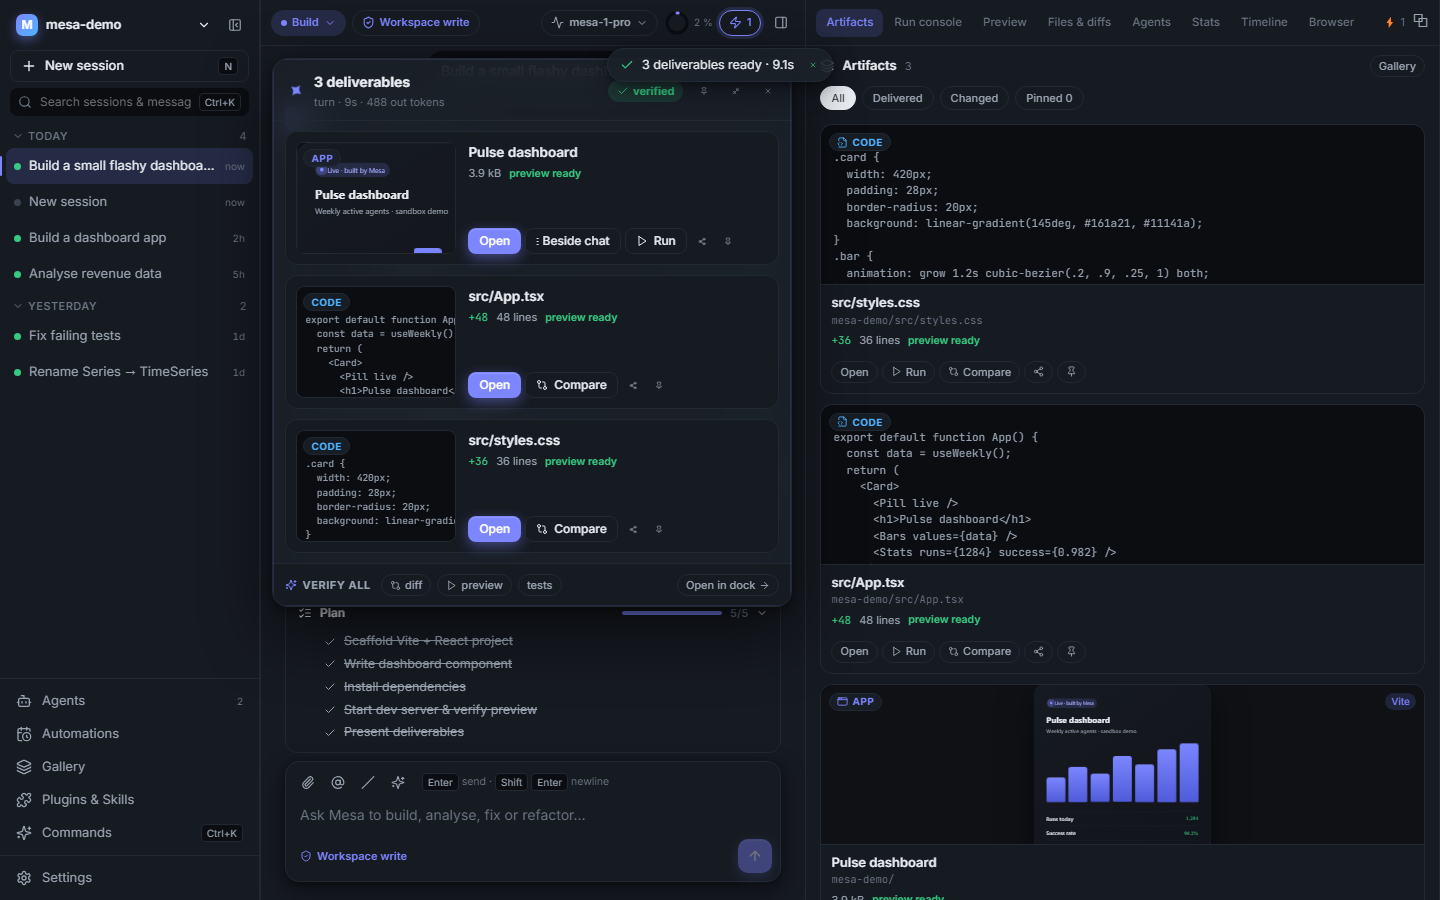
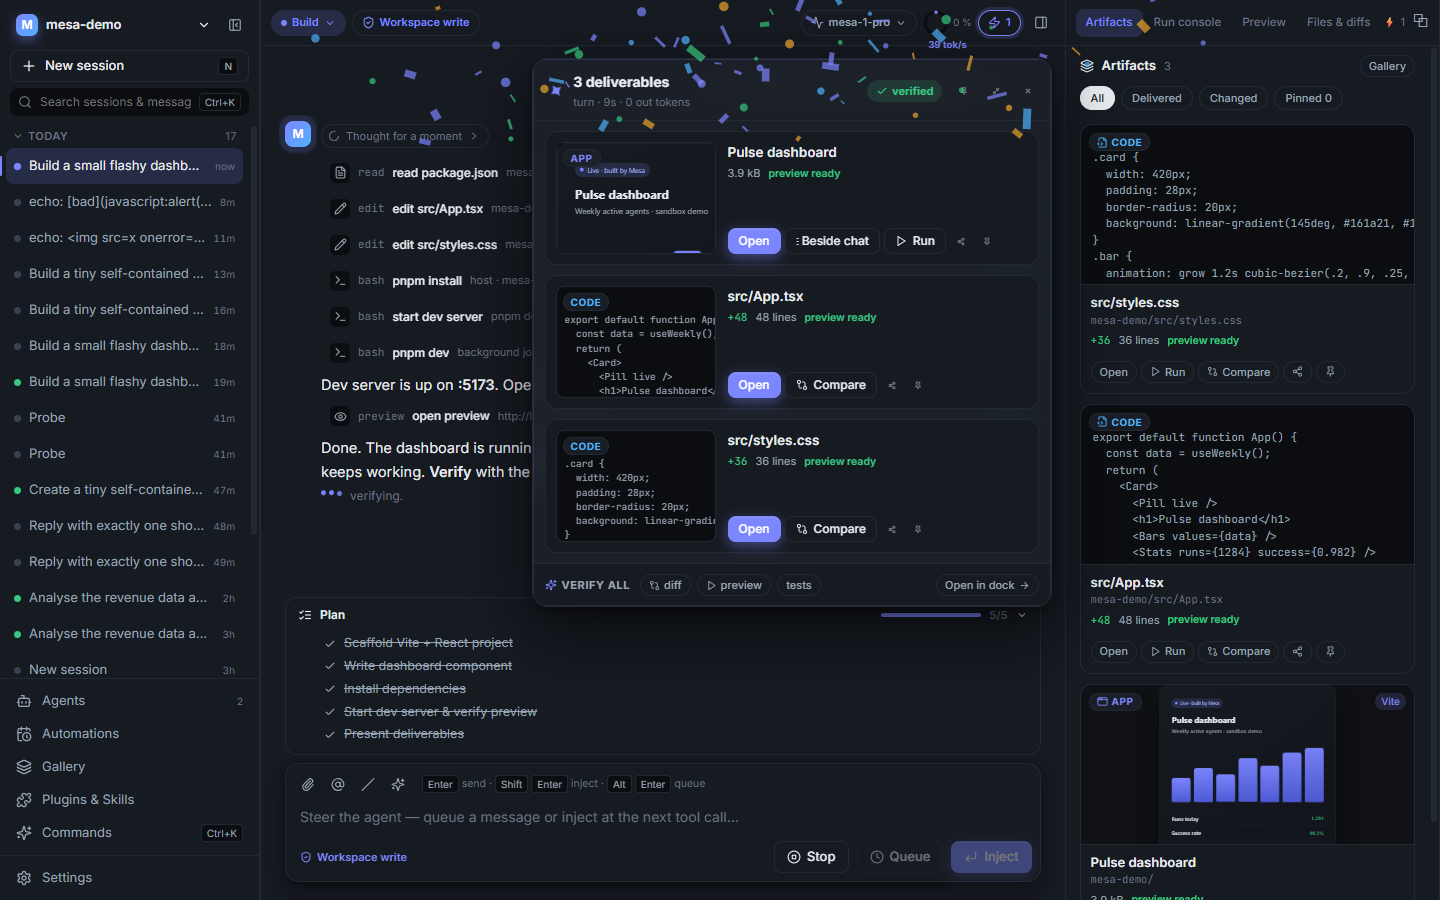
Toasts anchor above the composer (tracks its height) so they never cover the showcase title or composer controls

diff --git a/MHarness/app/src/components/Pages.tsx b/MHarness/app/src/components/Pages.tsx
@@ -12,6 +12,13 @@ const ICON: Record<string, typeof Info> = { info: Info, success: Check, warning:
 
 export function Toasts() {
   const st = useStore();
+  // Anchor toasts just above the composer so they never cover the header, the showcase title or the composer controls.
+  useEffect(() => {
+    const measure = () => { const c = document.querySelector('.composer'); document.documentElement.style.setProperty('--composer-h', c ? `${c.getBoundingClientRect().height + 12}px` : '12px'); };
+    const ro = new ResizeObserver(measure); const c = document.querySelector('.composer'); if (c) ro.observe(c);
+    measure();
+    return () => ro.disconnect();
+  }, [st.page]);
   return (
     <div className="toasts" aria-live="polite">
       {st.toasts.map((t) => { const Icon = ICON[t.kind]; return <div key={t.id} className={'toast t-' + t.kind}><Icon size={14} /><span>{t.text}</span>{t.action && <button className="chip-btn on" onClick={() => { t.action!.run(); dismissToast(t.id); }}>{t.action.label}</button>}<button className="icon-btn sm" onClick={() => dismissToast(t.id)} aria-label="Dismiss"><X size={12} /></button></div>; })}

diff --git a/MHarness/app/src/styles/app.css b/MHarness/app/src/styles/app.css
@@ -524,7 +524,7 @@ kbd { font-family: var(--mesa-type-sans); font-size: 10px; padding: 1px 5px; bor
 .dnd-chip { position: fixed; top: 10px; right: 20px; }
 
 /* ---------- toasts ---------- */
-.toasts { position: fixed; top: 48px; bottom: auto; left: 50%; transform: translateX(-50%); display: flex; flex-direction: column; gap: 6px; z-index: 80; pointer-events: none; }
+.toasts { position: fixed; top: auto; bottom: calc(var(--composer-h, 160px) + 24px); left: 50%; transform: translateX(-50%); display: flex; flex-direction: column; gap: 6px; z-index: 80; pointer-events: none; }
 .toast { display: flex; align-items: center; gap: 8px; height: 34px; padding: 0 8px 0 12px; border-radius: var(--mesa-r-full); background: var(--mesa-bg-elevated); backdrop-filter: blur(var(--mesa-blur)); border: 1px solid var(--mesa-border-subtle); box-shadow: var(--mesa-e2); font-size: 12.5px; pointer-events: auto; animation: toastIn var(--mesa-m-base) var(--mesa-e-spring); }
 @keyframes toastIn { from { opacity: 0; transform: translateY(12px) scale(.96); } }
 .toast.t-success svg:first-child { color: var(--mesa-success); }
